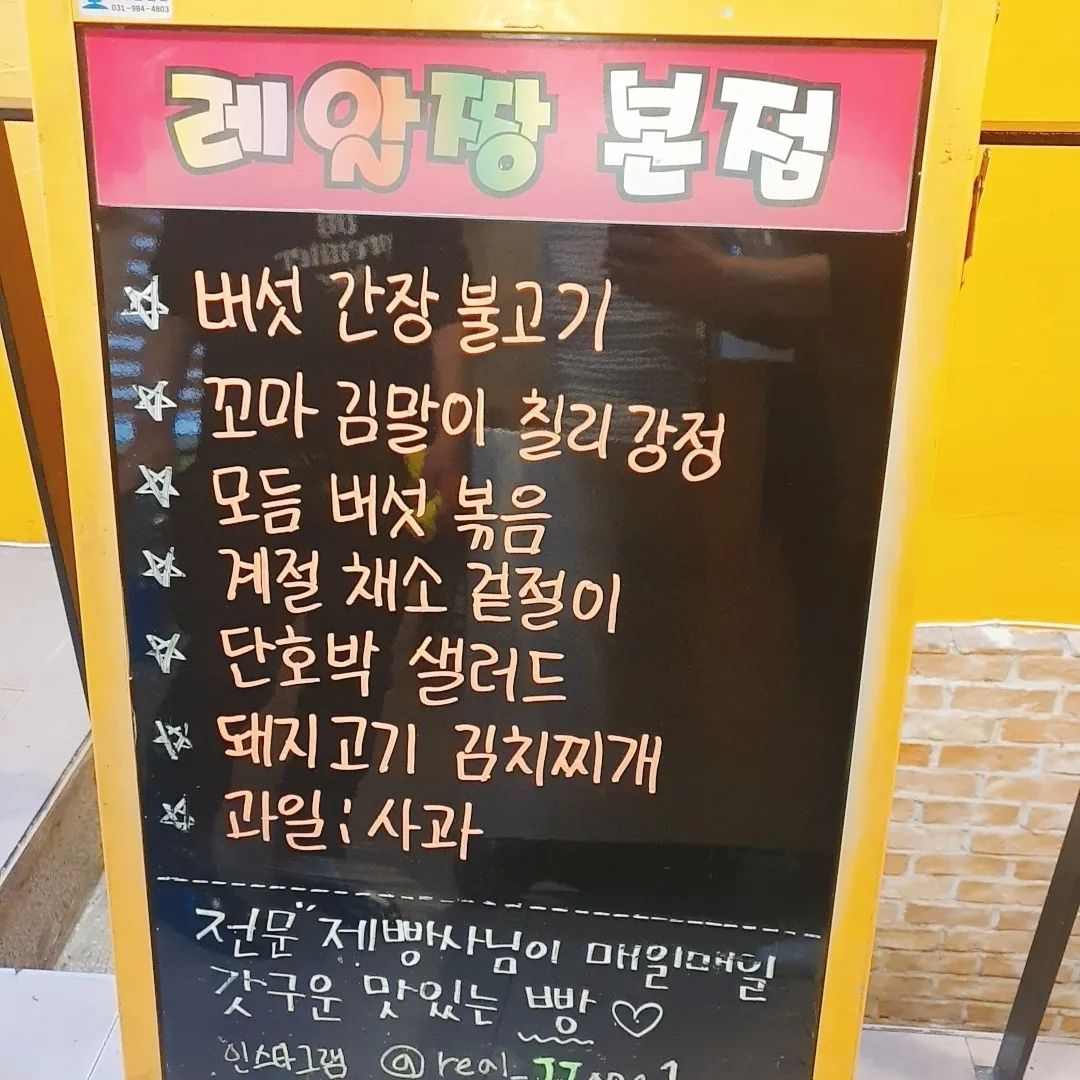
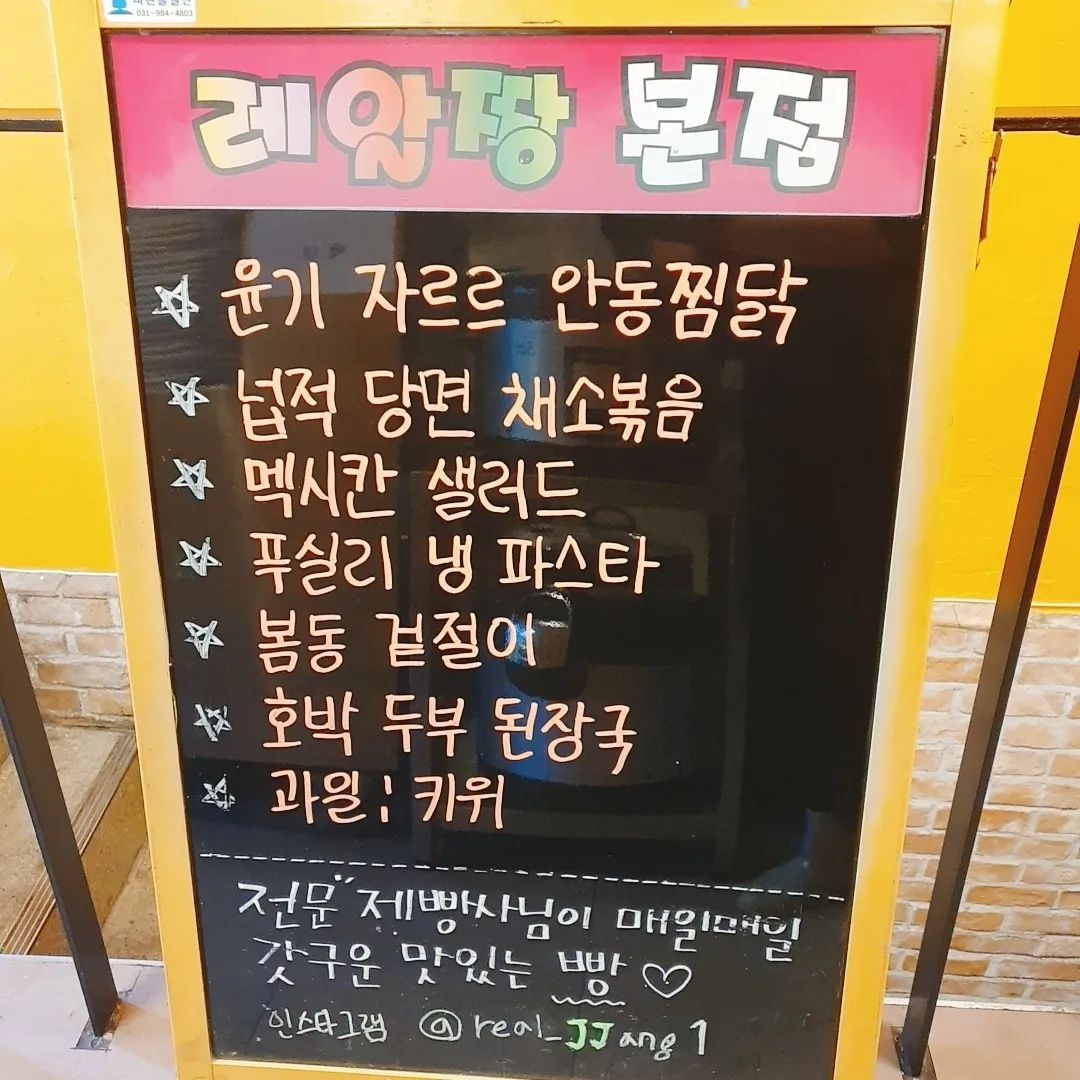
auto push

diff --git a/server/real_1_todaymenu.html b/server/real_1_todaymenu.html
@@ -1,1 +1,1 @@
-<h1 class="_aacl _aaco _aacu _aacx _aad7 _aade">3월 10일 금요일 레알짱 본점 저녁메뉴입니다. <br><br>- 버섯간장불고기<br>- 꼬마김말이칠리강정<br>- 모듬버섯볶음<br>- 계절채소겉절이<br>- 단호박샐러드<br>- 돼지고기김치찌개<br>- 과일: 사과<br>- 갓 구운 베이커리 입니다. <br><br>^^ 👍</h1>
+<h1 class="_aacl _aaco _aacu _aacx _aad7 _aade">3월&nbsp;11일 토요일 레알짱 본점 점심메뉴입니다. <br><br>- 윤기 자르르 안동찜닭 🐔 <br>- 넓적당면 채소볶음❤<br>- 멕시칸 샐러드 👍<br>- 푸실리 냉 파스타<br>- 봄동 겉절이<br>- 국 : 호박 두부 된장국<br>- 과일 : 키위 🥝 <br>- 갓 구운 베이커리 입니다. 🥖🥯🍞<br><br>^^👍 </h1>

diff --git a/server/smarttodaymenu.html b/server/smarttodaymenu.html
@@ -1,1 +1,1 @@
-<h1 class="_aacl _aaco _aacu _aacx _aad7 _aade">23. 03.10 금  OPEN-1554일차 저녁입니다.<br><br></h1>
+<h1 class="_aacl _aaco _aacu _aacx _aad7 _aade">23. 03.11 토 OPEN-1555일차 점심입니다.<br><br></h1>

diff --git a/server/megatodaymenu.html b/server/megatodaymenu.html
@@ -1,1 +1,1 @@
-<h1 class="_aacl _aaco _aacu _aacx _aad7 _aade">금일 석식 메뉴입니다</h1>
+<h1 class="_aacl _aaco _aacu _aacx _aad7 _aade">메가점 점심</h1>
